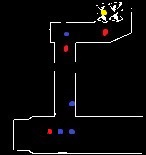
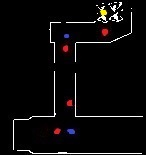
v5.5 极致的优化了流畅度

diff --git a/utils/utils.py b/utils/utils.py
@@ -28,6 +28,8 @@ except:
 
 
 def notif(title, msg, cnt=None):
+    #if '完成' in title:
+    #    return 0
     log.info("通知：" + msg + "  " + title)
     if cnt is not None:
         tm = str(time.time())
@@ -729,7 +731,8 @@ class UniverseUtils:
         shape = (int(self.scx * 190), int(self.scx * 190))
         bw_map = self.get_bw_map(gs=0)
         self.loc_off = 0
-        self.get_loc(bw_map, 40 - self.find * 15)
+        tm = time.time()
+        self.get_loc(bw_map, rg = 40 - self.find * 10)
         if self.find == 1:
             self.press("w", 0.2)
         self.get_screen()
@@ -758,9 +761,9 @@ class UniverseUtils:
             self.mouse_move(sub)
             self.ang = ang
             if type == 1:
-                ps = 10
-            elif type == 0:
                 ps = 11
+            elif type == 0:
+                ps = 12
             else:
                 ps = 4
             # 如果当前就在交互点上：直接返回
@@ -777,10 +780,9 @@ class UniverseUtils:
                 self.press("shift")
                 sft = 1
             time.sleep(0.2)
-            ltm = time.time()
             bw_map = self.get_bw_map()
-            self.get_loc(bw_map, rg=22)
-            self.get_real_loc()
+            self.get_loc(bw_map, rg=24, offset=self.get_offset(4))
+            self.get_real_loc(1)
             # 复杂的定位、寻路过程
             ds = self.get_dis(self.real_loc, loc)
             dls = [100000]
@@ -792,8 +794,8 @@ class UniverseUtils:
                     return
                 ctm = time.time()
                 bw_map = self.get_bw_map()
-                self.get_loc(bw_map, fbw=1)
-                self.get_real_loc()
+                self.get_loc(bw_map, fbw=1, offset=self.get_offset(2))
+                self.get_real_loc(2)
                 ang = (
                     math.atan2(loc[0] - self.real_loc[0], loc[1] - self.real_loc[1])
                     / math.pi
@@ -823,7 +825,6 @@ class UniverseUtils:
                         self.press(ts[t], 0.4)
                         if self._stop == 0:
                             pyautogui.keyDown("w")
-                        time.sleep(0.1)
                         bw_map = self.get_bw_map()
                         self.get_loc(bw_map, rg=28, fbw=1)
                         local_screen = self.get_local(0.9333, 0.8657, shape)
@@ -836,12 +837,8 @@ class UniverseUtils:
                     else:
                         pyautogui.keyUp("w")
                         break
-                if (
-                    nds <= ps
-                    or self.goodf()
-                    or isrun(self) == 0
-                ):
-                    if nds <= ps and type == 0:
+                if nds <= ps:
+                    if type == 0:
                         dls = [100000]
                         dtm = [time.time()]
                         self.target.remove((loc, type))
@@ -856,10 +853,13 @@ class UniverseUtils:
                     else:
                         pyautogui.keyUp("w")
                         break
+                elif (self.goodf() or not isrun(self)):
+                    pyautogui.keyUp("w")
+                    break
                 ds = nds
                 dls.append(ds)
                 dtm.append(time.time())
-                while dtm[0] < time.time() - 1.5 + sft * 0.4:
+                while dtm[0] < time.time() - 1.5 + sft * 0.7:
                     dtm = dtm[1:]
                     dls = dls[1:]
             log.info(f"进入新地图或者进入战斗 {nds}")
@@ -868,31 +868,23 @@ class UniverseUtils:
             if type == 1:
                 if self._stop == 0:
                     pyautogui.click()
-                time.sleep(0.6)
+                time.sleep(0.9)
                 self.press("s")
                 if self._stop == 0:
                     pyautogui.click()
                 time.sleep(0.6)
                 if len(self.target) <= 2:
+                    time.sleep(0.3)
                     self.press("s")
                     pyautogui.click()
                     time.sleep(0.6)
                     self.press("s", 0.5)
                     pyautogui.click()
-                    time.sleep(0.6)
-                    self.press("w", 1)
+                    time.sleep(0.5)
+                    self.press("w", 1.4)
                     pyautogui.click()
             self.get_screen()
-            if isrun(self) == 0:
-                if nds <= 16:
-                    try:
-                        self.target.remove((loc, type))
-                        log.info("removed:" + str((loc, type)))
-                    except:
-                        pass
-                else:
-                    return
-            elif type == 3:
+            if type == 3:
                 for i in "wwwwww":
                     self.get_screen()
                     if self.goodf():
@@ -905,39 +897,6 @@ class UniverseUtils:
                         self.move_to_end()
                         self.press(i, 0.3)
                         time.sleep(0.2)
-            elif type == 2:
-                # 接近交互点/传送点但是没出现交互按钮：开始绕当前点乱走
-                key_list = ["sasddwwwaw", "sdsaawwwdw"]
-                key = key_list[random.randint(0, len(key_list) - 1)]
-                for i in range(-1, len(key)):
-                    if self._stop:
-                        return
-                    time.sleep(0.4)
-                    self.get_screen()
-                    if self.goodf():
-                        for j in deepcopy(self.target):
-                            if j[1] == type:
-                                self.last = j[0]
-                                self.target.remove(j)
-                                log.info("removed:" + str(j))
-                                self.lst_changed = time.time()
-                        break
-                    else:
-                        if i == -1:
-                            if self._stop == 0:
-                                pyautogui.click()
-                            time.sleep(1.6)
-                        else:
-                            self.press(key[i], 0.25)
-                # 多次找不到交互点，放弃寻找（不能放弃传送点）
-                self.tries += 1
-                if self.tries == 3:
-                    try:
-                        self.target.remove((loc, type))
-                        log.info("removed:" + str((loc, type)))
-                        self.lst_changed = time.time()
-                    except:
-                        pass
             # 离目标点挺近了，准备找下一个目标点
             elif nds <= 16:
                 try:
@@ -981,10 +940,12 @@ class UniverseUtils:
     # 移动后根据旧坐标获得新坐标（匹配）
     # rg：匹配的范围（以旧坐标为中心） fbw：是否进行缩放
     # fbw：（人物静止/移动时小地图会有个缩放的过程，fbw=0表示当前人物是静止状态，因此缩放到移动状态与大地图匹配）ps：大地图是移动状态录制的
-    def get_loc(self, bw_map, rg=9, fbw=0):
+    def get_loc(self, bw_map, rg=10, fbw=0, offset=None):
         rge = 88 + rg
         loc_big = np.zeros((rge * 2, rge * 2), dtype=self.big_map.dtype)
         tpl = (self.now_loc[0], self.now_loc[1])
+        if offset is not None:
+            tpl = (tpl[0]+int(offset[0]),tpl[1]+int(offset[1]))
         x0, y0 = max(rge - tpl[0], 0), max(rge - tpl[1], 0)
         x1, y1 = max(tpl[0] + rge - self.big_map.shape[0], 0), max(
             tpl[1] + rge - self.big_map.shape[1], 0
@@ -996,24 +957,37 @@ class UniverseUtils:
         max_val, max_loc = -1, 0
         bo_1 = bw_map == 255
         tt = 4
+        kernel = np.zeros((5, 5), np.uint8)
+        kernel += 1
         if self.find and fbw == 0:
             tbw = cv.resize(bw_map, (176 + tt * 2, 176 + tt * 2))
             tbw[tbw > 150] = 255
             tbw[tbw <= 150] = 0
             tbw = tbw[tt : 176 + tt, tt : 176 + tt]
             bo_2 = tbw == 255
+            b_map = cv.dilate(tbw, kernel, iterations=1)
+            bo_5 = (b_map != 0) & (bo_2 == 0)
         bo_3 = loc_big >= 50
+        b_map = cv.dilate(bw_map, kernel, iterations=1)
+        bo_4 = (b_map != 0) & (bo_1 == 0)
         # 枚举匹配，找到匹配点最多的坐标
         for i in range(rge * 2 - 176):
             for j in range(rge * 2 - 176):
                 if (i - rge + 88) ** 2 + (j - rge + 88) ** 2 > rg**2:
                     continue
-                p = np.count_nonzero(bo_3[i : i + 176, j : j + 176] & bo_1)
+                p = 2*np.count_nonzero(bo_3[i : i + 176, j : j + 176] & bo_1)
+                p += np.count_nonzero(bo_3[i : i + 176, j : j + 176] & bo_4)
                 if p > max_val:
                     max_val = p
                     max_loc = (i, j)
+                    tmp = np.zeros((176,176), dtype=np.uint8)
+                    tpp = bo_3[i : i + 176, j : j + 176]
+                    tmp[tpp!=0]=255
+                    tmp[bo_1!=0]=150
+                    tmp[bo_4!=0]=50
                 if self.find and fbw == 0:
-                    p = np.count_nonzero(bo_3[i : i + 176, j : j + 176] & bo_2)
+                    p = 2*np.count_nonzero(bo_3[i : i + 176, j : j + 176] & bo_2)
+                    p += np.count_nonzero(bo_3[i : i + 176, j : j + 176] & bo_5)
                     if p > max_val:
                         max_val = p
                         max_loc = (i, j)
@@ -1022,12 +996,17 @@ class UniverseUtils:
                 max_loc[0] + 88 - rge + self.now_loc[0],
                 max_loc[1] + 88 - rge + self.now_loc[1],
             )
+        cv.imwrite('tp/'+str(time.time())+'.jpg',tmp)
 
-    def get_real_loc(self):
+    def get_real_loc(self,delta=0):
         x, y = self.now_loc
+        dx, dy = self.get_offset(delta=delta)
+        self.real_loc = (int(x+10+dx),int(y+dy))
+
+    def get_offset(self,delta=1):
         pi = 3.141592653589
-        dx, dy = sin(self.init_ang/180*pi), cos(self.init_ang/180*pi)
-        self.real_loc = (int(x+10),int(y))
+        dx, dy = sin(self.ang/180*pi), cos(self.ang/180*pi)
+        return (delta*dx*3,delta*dy*3)
 
     # 从8192*8192的超大地图中找到有意义的大地图
     def get_map(self):
@@ -1100,7 +1079,6 @@ class UniverseUtils:
             except:
                 pass
         res = sorted(res, key=lambda x: x[0])[-4:]
-        print(res)
         if res[-1][0]>res[-2][0]+0.09 and res[-1][0]>0.4:
             return res[-1][1], 0.9
         i_s = [x[1] for x in res]

diff --git a/states.py b/states.py
@@ -137,9 +137,10 @@ class SimulatedUniverse(UniverseUtils):
         self.battle = 0
         self.quit = 0
         self.floor_init = 0
+        self.in_battle = 0
         self.init_map()
         fail_cnt = 0
-        begin = 1
+        fail_time = time.time()
         self._stop = os.stat("imgs/mon" + self.tss).st_size != 141882
         while True:
             if self._stop:
@@ -176,25 +177,30 @@ class SimulatedUniverse(UniverseUtils):
             res = self.normal()
             # 未匹配到图片，降低匹配阈值，若一直无法匹配则乱点
             if res == 0:
-                if self.threshold == 0.97 and fail_cnt==0:
-                    log.info("匹配不到任何图标")
-                if self.threshold > 0.95:
-                    self.threshold -= 0.015
-                else:
-                    if fail_cnt <= 1:
-                        self.click((0.5000, 0.1454))
-                        fail_cnt += 1
-                    else:
-                        self.click((0.2062, 0.2054))
-                        fail_cnt = 0
-                    self.threshold = 0.97
-                time.sleep(0.5+1.6*(self.floor in [0,5] and not self.big_map_c and self.threshold != 0.97))
+                self.click_text(['空白处','确认','点击'])
+                if time.time()-self.in_battle>7:
+                    if self.threshold == 0.97 and fail_cnt==0:
+                        log.info("匹配不到任何图标")
+                        fail_time = time.time()
+                    if self.threshold > 0.94:
+                        self.threshold -= 0.009
+                    elif time.time()-fail_time>2:
+                        time.sleep(0.15)
+                        if fail_cnt <= 1:
+                            self.click((0.5000, 0.1454))
+                            fail_cnt += 1
+                        else:
+                            self.click((0.2062, 0.2054))
+                            fail_cnt = 0
+                        time.sleep(0.25)
+                        self.threshold = 0.97
+                    time.sleep(0.1)
+
             # 匹配到图片 res=1时等待一段时间
             else:
                 fail_cnt = 0
                 self.threshold = 0.97
-                if res == 1:
-                    time.sleep(0.4)
+                fail_time = time.time()
         log.info("停止运行")
 
     def end_of_uni(self):
@@ -241,6 +247,7 @@ class SimulatedUniverse(UniverseUtils):
                 if random.randint(0, 6) == 3:
                     self.press("r")
             self.battle = time.time()
+            self.in_battle = time.time()
             return 1
         # 祝福界面/回响界面 （放在一起处理了）
         if self.check("choose_bless", 0.9266, 0.9491):
@@ -394,11 +401,10 @@ class SimulatedUniverse(UniverseUtils):
                             ) or self._stop:
                                 break
                         log.info(f"地图编号：{self.now_map}  相似度：{self.now_map_sim}")
-                        if self.debug:
-                            notif(f"地图编号：{self.now_map}",f"相似度：{self.now_map_sim}")
                         if self.now_map_sim < 0.35:
                             notif("相似度过低", "疑似在黑塔办公室")
-                            time.sleep(10000)
+                            if self.debug==2:
+                                time.sleep(10000)
                             # self.init_map()
                             # return 1
                         if self.debug == 2:
@@ -414,8 +420,10 @@ class SimulatedUniverse(UniverseUtils):
                                 self.kl = 0
                                 if not self.now_map in s:
                                     s.append(self.now_map)
+                                    notif(f"地图编号：{self.now_map}",f"相似度：{self.now_map_sim}")
                                 else:
                                     self.kl = 1
+                                    pass
                                 with open(
                                     "check0.txt",
                                     "w",
@@ -641,13 +649,6 @@ class SimulatedUniverse(UniverseUtils):
                     time.sleep(0.3)
                     self.get_screen()
             self.press("esc")
-        else:
-            img1 = self.check("z", 0.5047, 0.1324, mask="mask_close", large=False)
-            img2 = self.check("z", 0.4990, 0.0731, mask="mask_close1", large=False)
-            if self.ts.sim("点击空白", img1) or self.ts.sim("点击空白", img2):
-                self.click((0.2062, 0.2054))
-            else:
-                 return 0
         return 0
 
     def find_latest_modified_file(self, folder_path):
